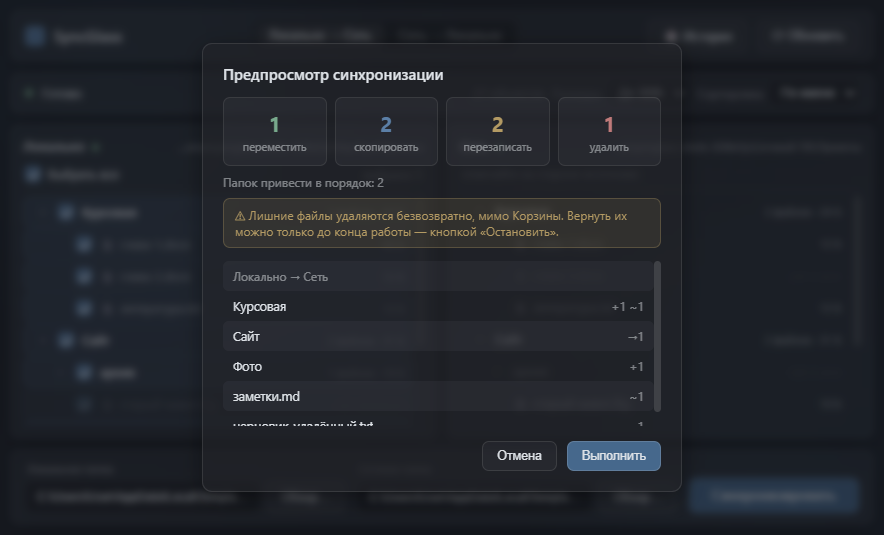
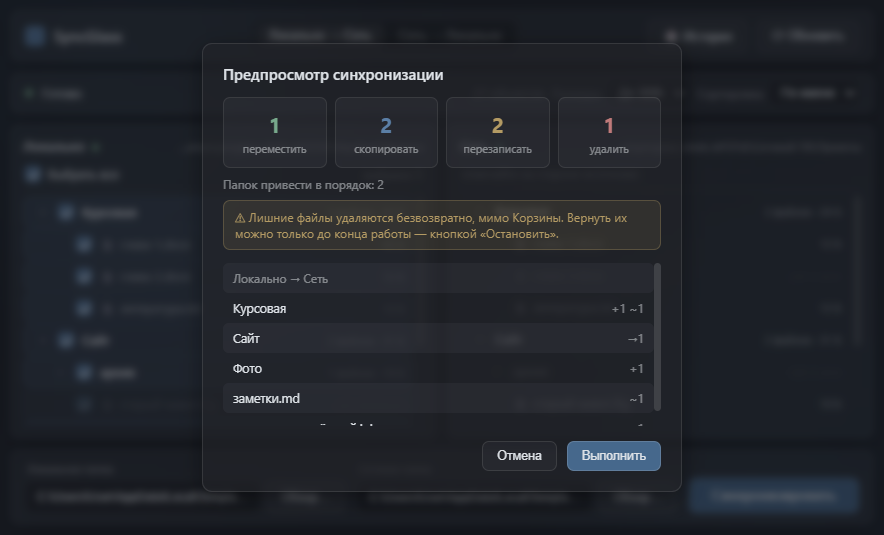
Большие счётчики в предпросмотре больше не вылезают за плашки; версия 1.0.1
Число с разрядами, шрифт мельче по длине, «из N» во время работы отдельной
строкой вместо «сделано/всего», перенос - последняя страховка. Счётчики веток
тоже с разрядами. Проверено кадром с миллионными числами. Нашёл автор.

diff --git a/renderer/renderer.js b/renderer/renderer.js
@@ -90,6 +90,24 @@ function fmtNum(n) {
   return n.toLocaleString('ru-RU');
 }
 
+// Счётчик в плашке предпросмотра. Плашка узкая - четыре в ряд в окне 900 px, - а
+// счёт бывает шестизначным, и во время работы там стояло ещё «сделано/всего»:
+// такие числа вылезали за рамку. Теперь число с разрядами, шрифт уменьшается по
+// длине, «из N» идёт отдельной строкой, а перенос в любом месте (CSS) остаётся
+// последней страховкой. Точное значение - во всплывающей подсказке.
+function numSize(text) {
+  const n = text.length;
+  if (n > 11) return 'num-xs';
+  if (n > 7) return 'num-s';
+  if (n > 5) return 'num-m';
+  return '';
+}
+function statNum(value, total = null) {
+  const text = fmtNum(value);
+  const of = total === null ? '' : `<span class="of">из ${fmtNum(total)}</span>`;
+  return `<span class="num ${numSize(text)}" title="${text}">${text}</span>${of}`;
+}
+
 // Сторона-источник (там показываем чекбоксы).
 function sourceSide() {
   return state.direction === 'toNetwork' ? 'local' : 'network';
@@ -752,7 +770,7 @@ function renderPreview({ perFolder, totals, skipped = [], skippedTotal = 0 }) {
   // Перемещения показываем только когда они есть: в обычном прогоне их ноль,
   // и лишняя плашка только мешала бы.
   const moveStat = totals.move
-    ? `<div class="stat move"><span class="num">${totals.move}</span><span class="lbl">переместить</span></div>`
+    ? `<div class="stat move"><span class="val">${statNum(totals.move)}</span><span class="lbl">переместить</span></div>`
     : '';
   const dirsNote = totals.dirs
     ? `<div class="preview-note">Папок привести в порядок: ${totals.dirs}</div>`
@@ -768,18 +786,18 @@ function renderPreview({ perFolder, totals, skipped = [], skippedTotal = 0 }) {
     : '';
   el.previewSummary.innerHTML = `
     ${moveStat}
-    <div class="stat copy"><span class="num">${totals.copy}</span><span class="lbl">скопировать</span></div>
-    <div class="stat overwrite"><span class="num">${totals.overwrite}</span><span class="lbl">перезаписать</span></div>
-    <div class="stat trash"><span class="num">${totals.trash}</span><span class="lbl">${delLabel}</span></div>
+    <div class="stat copy"><span class="val">${statNum(totals.copy)}</span><span class="lbl">скопировать</span></div>
+    <div class="stat overwrite"><span class="val">${statNum(totals.overwrite)}</span><span class="lbl">перезаписать</span></div>
+    <div class="stat trash"><span class="val">${statNum(totals.trash)}</span><span class="lbl">${delLabel}</span></div>
     ${dirsNote}${warn}${skipNote}`;
 
   const row = (pf) => {
     const s = pf.summary;
     const parts = [];
-    if (s.move) parts.push(`→${s.move}`);
-    if (s.copy) parts.push(`+${s.copy}`);
-    if (s.overwrite) parts.push(`~${s.overwrite}`);
-    if (s.trash) parts.push(`−${s.trash}`);
+    if (s.move) parts.push(`→${fmtNum(s.move)}`);
+    if (s.copy) parts.push(`+${fmtNum(s.copy)}`);
+    if (s.overwrite) parts.push(`~${fmtNum(s.overwrite)}`);
+    if (s.trash) parts.push(`−${fmtNum(s.trash)}`);
     const counts = parts.length ? parts.join('  ') : 'без изменений';
     return `<li><span>${escapeHtml(pf.folder)}</span><span class="pv-counts">${counts}</span></li>`;
   };
@@ -869,10 +887,10 @@ async function runSync() {
 
   // Живой счётчик по действиям — цифры в плашках растут по ходу работы.
   const numEls = {
-    move: el.previewSummary.querySelector('.stat.move .num'),
-    copy: el.previewSummary.querySelector('.stat.copy .num'),
-    overwrite: el.previewSummary.querySelector('.stat.overwrite .num'),
-    trash: el.previewSummary.querySelector('.stat.trash .num'),
+    move: el.previewSummary.querySelector('.stat.move .val'),
+    copy: el.previewSummary.querySelector('.stat.copy .val'),
+    overwrite: el.previewSummary.querySelector('.stat.overwrite .val'),
+    trash: el.previewSummary.querySelector('.stat.trash .val'),
   };
   const unsubscribe = window.api.onSyncProgress(({ done, total, action, path, by }) => {
     if (action === 'rollback') return; // текст уже показан кнопкой остановки
@@ -881,7 +899,7 @@ async function runSync() {
     el.progressText.textContent = `${done}/${total} · ${ACTION_VERB[action] || ''} ${path}`;
     if (by) {
       for (const key of Object.keys(numEls)) {
-        if (numEls[key]) numEls[key].textContent = `${by[key]}/${lastPreviewTotals[key]}`;
+        if (numEls[key]) numEls[key].innerHTML = statNum(by[key], lastPreviewTotals[key]);
       }
     }
   });

diff --git a/test/renderer.test.js b/test/renderer.test.js
@@ -383,3 +383,39 @@ test('без удалений предупреждение не показыва
   const html = summaryOf(0);
   assert.ok(!html.includes('безвозвратно'), 'пугать нечем: удалять нечего');
 });
+
+// Большие счётчики вылезали за плашки предпросмотра: плашка узкая (четыре в ряд
+// в окне 900 px), шестизначное число шрифтом 21 px в неё не входит, а во время
+// работы там ещё и «сделано/всего». Нашёл автор на своих папках.
+test('большие счётчики печатаются с разрядами и мельче', () => {
+  const { api } = fresh();
+  api.renderPreview({
+    perFolder: [{ folder: 'док', summary: { move: 0, copy: 1234567, overwrite: 98765, trash: 3, unchanged: 0, dirs: 0, total: 1333335 } }],
+    totals: { move: 0, copy: 1234567, overwrite: 98765, trash: 3, unchanged: 0, dirs: 0, total: 1333335 },
+  });
+  const html = api.el.previewSummary.innerHTML;
+  assert.ok(html.includes('1 234 567'), 'миллион с разрядами');
+  assert.ok(!html.includes('1234567'), 'без разрядов длинное число не читается');
+  assert.match(html, /class="num num-s"[^>]*>1 234 567/, 'длинное число - мельче');
+  assert.match(html, /class="num "[^>]*>3</, 'короткое - обычным шрифтом');
+});
+
+test('во время работы «из N» отдельной строкой, а не через косую', () => {
+  const { __ctx } = fresh().api;
+  const html = __ctx.statNum(12345, 67890);
+  assert.ok(html.includes('12 345') && html.includes('из 67 890'), html);
+  assert.ok(!html.replace(/<[^>]+>/g, '').includes('/'), 'через косую строка выходила вдвое длиннее');
+});
+
+test('размер шрифта плашки растёт вниз вместе с длиной числа', () => {
+  const { __ctx } = fresh().api;
+  const order = ['', 'num-m', 'num-s', 'num-xs'];
+  let prev = 0;
+  for (const n of [0, 7, 42, 999, 1000, 99999, 100000, 9999999, 10000000, 1e9, 1e12]) {
+    const cls = __ctx.numSize(__ctx.fmtNum(n));
+    const rank = order.indexOf(cls);
+    assert.ok(rank >= prev, `${n}: ${cls} крупнее, чем у числа поменьше`);
+    prev = rank;
+  }
+  assert.strictEqual(prev, 3, 'у самых длинных - самый мелкий шрифт');
+});

diff --git a/renderer/styles.css b/renderer/styles.css
@@ -618,7 +618,7 @@ input[type="checkbox"]:indeterminate::after {
   flex-wrap: wrap;
 }
 .stat {
-  flex: 1;
+  flex: 1 1 0;
   min-width: 90px;
   padding: 11px;
   border-radius: var(--radius-sm);
@@ -626,10 +626,36 @@ input[type="checkbox"]:indeterminate::after {
   border: 1px solid rgba(255, 255, 255, 0.08);
   text-align: center;
 }
+.stat .val {
+  display: flex;
+  flex-direction: column;
+  justify-content: center;
+  min-height: 30px;
+}
+/* Длинное число мельче (renderer.js, numSize), а перенос в любом месте - последняя
+   страховка: число не имеет права выйти за рамку плашки. */
 .stat .num {
   display: block;
   font-size: 21px;
   font-weight: 700;
+  line-height: 1.15;
+  font-variant-numeric: tabular-nums;
+  overflow-wrap: anywhere;
+}
+.stat .num.num-m {
+  font-size: 18px;
+}
+.stat .num.num-s {
+  font-size: 15px;
+}
+.stat .num.num-xs {
+  font-size: 12px;
+}
+.stat .of {
+  display: block;
+  font-size: 10px;
+  color: var(--text-dim);
+  overflow-wrap: anywhere;
 }
 .stat .lbl {
   font-size: 11px;

diff --git a/README.md b/README.md
@@ -21,7 +21,7 @@
 The local folder is on the left, the network folder on the right. Tick what to sync on the source side, pick the direction, and press Sync. New files are copied, changed ones overwritten, and files that no longer exist on the source are deleted from the destination.
 
 - **Moves are recognised.** If a file or a whole folder was moved, the destination does the same by renaming instead of deleting and copying again. A pair is matched by size and name, counted only when the match is unique, and checked by content before it becomes a move.
-- **A preview comes first**: how many files will be moved, copied, overwritten and deleted, with a live counter while it runs. Nothing changes without confirmation.
+- **A preview comes first**: how many files will be moved, copied, overwritten and deleted, with a live counter while it runs. Nothing changes without confirmation. Large counts are printed with digit grouping and a smaller font, and "of N" goes on its own line while running: a six-digit count used to spill out of its tile (fixed in 1.0.1).
 - **Stop undoes the run.** Originals are not destroyed straight away: during the run they sit in a service folder `.sgundo` inside the destination and are thrown away in one go only at the very end. Stop brings back what was overwritten and deleted and removes what was copied; if a run crashed, the next start clears up after it.
 - **Folder-versus-file conflicts are resolved.** If `Reports` is a folder on one side and a file on the other, the destination clears the spot first and then puts the right thing there.
 - **Names are case-insensitive**, as in Windows itself: `Docs` and `docs` are the same folder.
@@ -38,7 +38,7 @@ npm install
 npm test
 ```
 
-179 tests in twelve files, all on `node --test` with no test dependencies. The logic lives in `src/` and is tested directly; `main.js` and `renderer.js` are loaded with Electron and the DOM stubbed, so no real Electron is needed.
+182 tests in twelve files, all on `node --test` with no test dependencies. The logic lives in `src/` and is tested directly; `main.js` and `renderer.js` are loaded with Electron and the DOM stubbed, so no real Electron is needed.
 
 Two files are worth copying:
 

diff --git a/README.ru.md b/README.ru.md
@@ -55,7 +55,9 @@
   написание источника.
 - Перед выполнением — окно предпросмотра со сводкой (сколько переместить /
   скопировать / перезаписать / удалить), с живым счётчиком по ходу работы.
-  Ничего не меняется без подтверждения.
+  Ничего не меняется без подтверждения. Большие числа печатаются с разрядами и
+  мельче, «из N» во время работы идёт отдельной строкой: шестизначный счёт раньше
+  вылезал за рамку плашки (исправлено в 1.0.1).
 - **Кнопка «Остановить»** во время работы прекращает синхронизацию и возвращает
   приёмник в исходное состояние: скопированное убирается, перезаписанное и
   удалённое возвращается на место. Возможно это потому, что оригиналы не
@@ -647,7 +649,7 @@ Electron, два процесса, общение через IPC (безопас
 npm test
 ```
 
-Двенадцать файлов в `test/`, 179 тестов, всё на `node --test`, без внешних
+Двенадцать файлов в `test/`, 182 теста, всё на `node --test`, без внешних
 зависимостей. Логика вынесена в `src/` и проверяется напрямую, а `main.js`
 и `renderer.js` поднимаются с заглушками: Электрон и DOM подменяются
 в `test/helpers/`. Настоящий Электрон для тестов не нужен.
